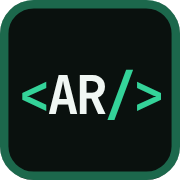
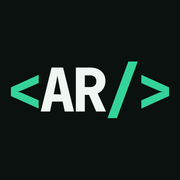
Icône d'onglet en PNG sur fond noir, <AR/> en grand

Changed region(s): [[0.0, 0.0, 1.0, 1.0]]

diff --git a/index.html b/index.html
@@ -5,8 +5,9 @@
   <meta charset="UTF-8">
   <meta name="viewport" content="width=device-width, initial-scale=1.0">
   <title>Arthur Roux - Portfolio</title>
-  <link rel="icon" href="favicon.svg" type="image/svg+xml">
+  <link rel="icon" href="favicon-48.png" type="image/png" sizes="48x48">
   <link rel="icon" href="favicon-32.png" type="image/png" sizes="32x32">
+  <link rel="icon" href="favicon-192.png" type="image/png" sizes="192x192">
   <link rel="apple-touch-icon" href="apple-touch-icon.png">
   <meta name="theme-color" content="#0a110e">
   <meta name="description"
